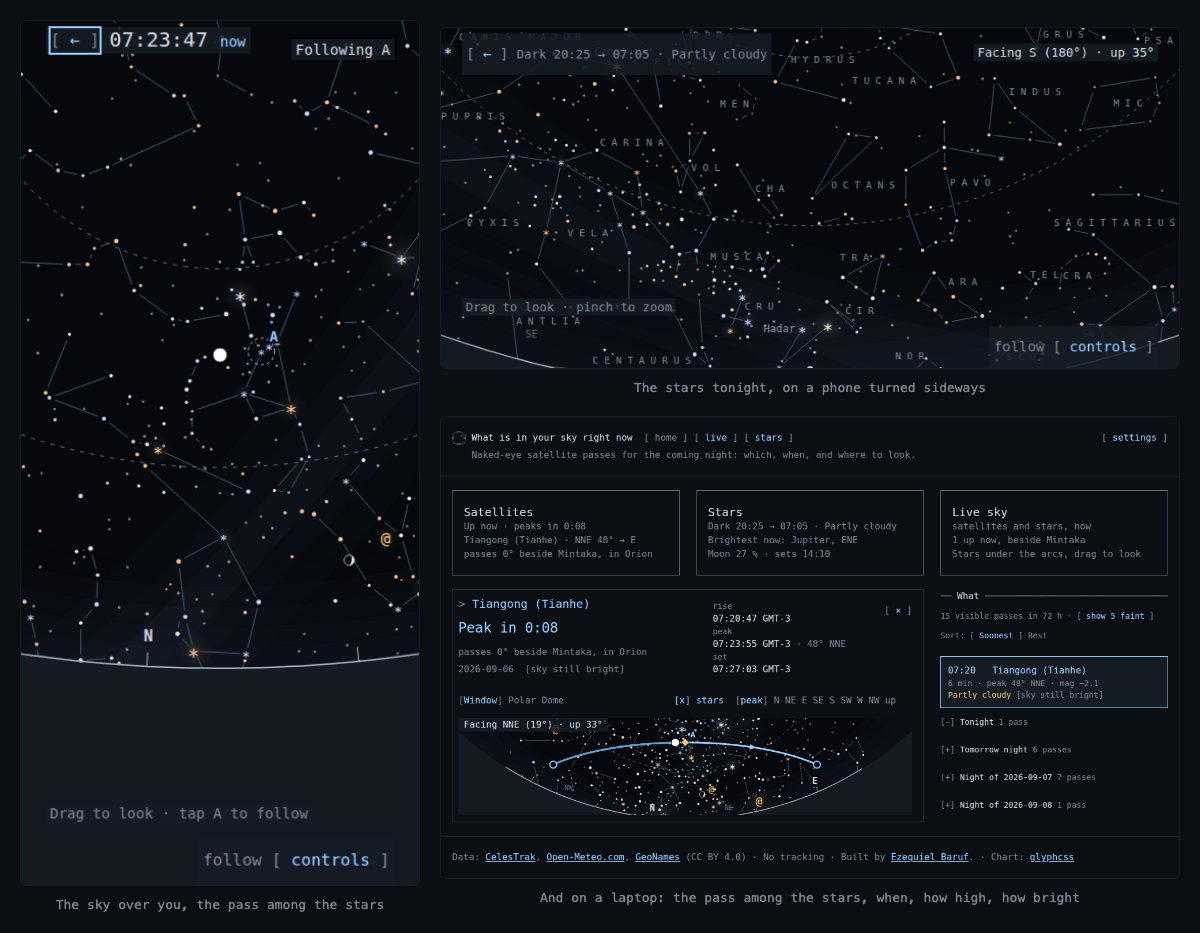
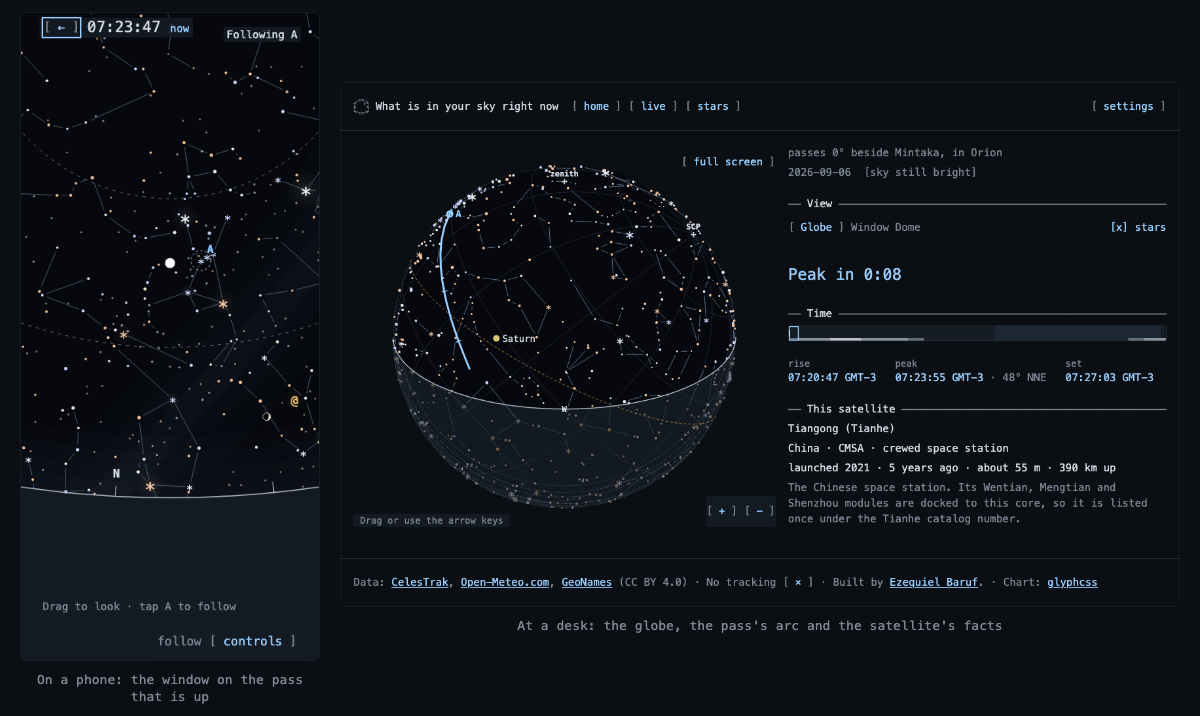
R191: the hero and the social preview from 2.14's captures
A phone in the window over a pass and a desk on the globe with the
pass's arc and its facts; the preview fits each column to the height.
FR-PUB-14, D-1107.

diff --git a/scripts/readme-hero.ts b/scripts/readme-hero.ts
@@ -14,9 +14,9 @@
  * phase fails a test instead of leaving a broken image in the README.
  *
  * R178 (FR-SDD-22, D-1068): the capture set left `main` for the orphan `captures`
- * branch, so the three captures the hero is made of stay on `main` as README
+ * branch, so the captures the hero is made of stay on `main` as README
  * images, under `docs/readme/sources/` with the set's names. To move the hero to
- * a newer shoot, copy the three files from the branch (`git show
+ * a newer shoot, copy the files `SOURCES` names from the branch (`git show
  * origin/captures:<file>`) into that directory and run this script. The output
  * never goes under `docs/screenshots/`.
  *
@@ -60,49 +60,32 @@ export interface Source {
 }
 
 /**
- * The captures, in this order. Each is a release capture from the v1.3 set,
- * shot in the dark theme in English from the production build — so the picture
- * cannot disagree with the build the capture set was shot from.
+ * The captures, in this order: the two FR-PUB-14 names for 2.14.0, shot in the
+ * dark theme in English from the production build, so the picture cannot
+ * disagree with the build the set was shot from.
  *
- * Three answers to the three things a reader wants in the first ten seconds:
- * what the sky over them looks like (the live page on a standing phone, the
- * tile the eye lands on first), what the app is for outdoors (the stars page
- * on a phone turned sideways since R153; the sky screen held up until v2.9
- * retired it), and what it actually
- * shows you (the laptop's pass detail on the window since R128: the pass's arc
- * under the stars it crosses, faced to its peak, with its time, peak and
- * brightness in the card beside it — v2.5's one sky, FR-SKY-9).
+ * R191 (FR-PUB-14, D-1107): a phone in the window over a pass, and a desk on
+ * the globe with the pass's arc and the satellite's facts. Until 2.13 there
+ * were three tiles — the live page on a phone, the stars page turned sideways
+ * and the pass detail on the window at a laptop (R128, R153); 2.14's desk is
+ * one sky on the globe, so the desk tile is `sky-pass-facts` and the sideways
+ * phone left the picture (the stars page on a phone did not change in 2.14).
  */
 export const SOURCES = [
   {
-    // R80: the set's `live` screen is `live-watching` since v2.0 split the live page into
-    // its two states (FR-WATCH-9 f). Watching is the right half of that split for a first
-    // picture: it is the page as it opens, with no scrub block over the sky. R135 (FR-FLOW-14):
-    // a phone opens on the window since v2.6, following the pass that is up, so the tile is the
-    // pass among the stars and no longer the braille dome; the caption says what it shows. R145 (FR-TONIGHT-6):
-    // since v2.7 the tile also carries the shown time, the context line, the time track and the three taps.
-    // R149 (FR-FULL-1, FR-FULL-2): since v2.8 the tile is all sky, `[ ← ]` and the shown time over it and `[ controls ]` at its foot.
+    // R80, R135, R145, R149: the live page as a phone opens it — on the window, following the pass
+    // that is up, all sky, the shown time over it and `[ controls ]` at its foot.
     file: 'v1-live-watching-390-dark-en.png',
-    caption: 'The sky over you, the pass among the stars',
+    caption: 'On a phone: the window on the pass that is up',
     w: 390,
     h: 844,
     slot: 'main',
   },
   {
-    // R153 (FR-GYRO-6, FR-GYRO-9; PLAN D-960): v2.9 retires the sky screen this tile was, so the phone turned is the
-    // stars page now — the constellations over the place, the facing row and the layers in the rail beside them.
-    file: 'v1-stars-844-dark-en.png',
-    caption: 'The stars tonight, on a phone turned sideways',
-    w: 844,
-    h: 390,
-    slot: 'stack',
-  },
-  {
-    // R128 (FR-SKY-9): v2.5 draws one sky in every view, so the laptop tile is the pass detail on the
-    // window — the pass among the stars it crosses, with its time, peak and brightness in the card beside
-    // it — where it was the home page; the same size, so the layout does not move.
-    file: 'v1-guide-window-1280-dark-en.png',
-    caption: 'And on a laptop: the pass among the stars, when, how high, how bright',
+    // R191 (FR-PUB-14): the pass detail at a desk on the globe — the pass's arc among the stars, its
+    // times in the rail and `This satellite` under them (FR-WIDE-3, FR-FACT-2).
+    file: 'v1-sky-pass-facts-1280-dark-en.png',
+    caption: "At a desk: the globe, the pass's arc and the satellite's facts",
     w: 1280,
     h: 800,
     slot: 'stack',
@@ -157,8 +140,20 @@ export interface Layout {
   gap: number;
   /** The standing phone's width; every other box is derived from it. */
   mainWidth: number;
+  /** R191: the column's width when it must not take all the room beside the phone (the preview's desk tile); absent, it does. */
+  stackWidth?: number;
   title: boolean;
 }
+
+/**
+ * The hero's sheet: the tiles set the height, so only the width is fixed. The
+ * padding and the gaps are as small as they can be — GitHub renders a README
+ * image at about 880 px, so every pixel not spent on a screen is a pixel of
+ * text the reader loses to the downscale. R191: the phone is 300 px wide with
+ * two tiles, so the desk beside it gets 840 px and the two columns are near
+ * one height (at 400 the phone stood twice the desk's height).
+ */
+export const HERO_LAYOUT: Layout = { width: HERO.width, height: null, pad: 20, gap: 20, mainWidth: 300, title: false };
 
 /** One tile, placed. */
 export interface Placed {
@@ -181,8 +176,9 @@ export function geometry(layout: Layout, sources: readonly Source[] = SOURCES): 
   if (stacked.length === 0) throw new Error('the sheet needs at least one stacked tile');
 
   const inner = layout.width - 2 * layout.pad;
-  const stackWidth = inner - layout.gap - layout.mainWidth;
-  if (stackWidth <= 0) throw new Error(`mainWidth ${String(layout.mainWidth)} leaves no room beside it in ${String(layout.width)} px`);
+  const room = inner - layout.gap - layout.mainWidth;
+  const stackWidth = Math.min(room, layout.stackWidth ?? room);
+  if (room <= 0 || stackWidth <= 0) throw new Error(`mainWidth ${String(layout.mainWidth)} leaves no room beside it in ${String(layout.width)} px`);
 
   const place = (source: Source, width: number): Placed => ({ source, width, height: Math.round((width * source.h) / source.w) });
   const main = place(only, layout.mainWidth);
@@ -195,14 +191,25 @@ export function geometry(layout: Layout, sources: readonly Source[] = SOURCES): 
 }
 
 /**
- * The widest standing phone that keeps the sheet inside `ceiling`. The social
- * preview is 1280 x 640 whatever is in it, so the tiles are sized down to that
- * rather than the frame cropping whatever overflowed it.
+ * The widest standing phone and the widest column beside it that keep the sheet
+ * inside `ceiling`. The social preview is 1280 x 640 whatever is in it, so the
+ * tiles are sized down to that rather than the frame cropping whatever
+ * overflowed it. R191: each column is fitted to the height on its own — a desk
+ * tile in the column is 0.625 of its width tall, so letting it take all the
+ * room beside the phone makes it taller the narrower the phone is, and no
+ * phone width fits — and the row is centred in the width left over.
  */
-function fitMainWidth(layout: Layout, ceiling: number, sources: readonly Source[]): number {
-  const widest = Math.floor((layout.width - 2 * layout.pad - layout.gap) / 2);
+function fitWidths(layout: Layout, ceiling: number, sources: readonly Source[]): Layout {
+  const inner = layout.width - 2 * layout.pad;
+  const widest = Math.floor((inner - layout.gap) / 2);
+  const fits = (candidate: Layout): boolean => geometry(candidate, sources).height <= ceiling;
   for (let width = widest; width >= 80; width -= 2) {
-    if (geometry({ ...layout, mainWidth: width }, sources).height <= ceiling) return width;
+    const room = inner - layout.gap - width;
+    // The phone alone must fit: a column of width 1 is never the taller one.
+    if (!fits({ ...layout, mainWidth: width, stackWidth: 1 })) continue;
+    for (let column = room; column >= 80; column -= 2) {
+      if (fits({ ...layout, mainWidth: width, stackWidth: column })) return { ...layout, mainWidth: width, stackWidth: column };
+    }
   }
   throw new Error(`no tile width fits ${String(sources.length)} captures into ${String(layout.width)} x ${String(ceiling)}`);
 }
@@ -273,12 +280,7 @@ export async function main(): Promise<void> {
   const urls = new Map(SOURCES.map((source) => [source.file, pathToFileURL(join(SCREENSHOTS, source.file)).href]));
   const browser = await chromium.launch();
   try {
-    // The hero: the tiles set the height, so only the width is fixed. The
-    // padding and the gaps are as small as they can be — GitHub renders a
-    // README image at about 880 px, so every pixel not spent on a screen is a
-    // pixel of text the reader loses to the downscale.
-    const hero: Layout = { width: HERO.width, height: null, pad: 20, gap: 20, mainWidth: 400, title: false };
-    await shoot(browser, scratch, 'hero.html', compose(hero, urls), HERO.path);
+    await shoot(browser, scratch, 'hero.html', compose(HERO_LAYOUT, urls), HERO.path);
 
     // The preview: 1280 x 640 exactly, which is what GitHub asks for, so the
     // sheet is given both and the standing phone is sized down until the title
@@ -286,7 +288,7 @@ export async function main(): Promise<void> {
     // `previewSources`.
     const chosen = previewSources();
     const preview: Layout = { width: PREVIEW.width, height: PREVIEW.height, pad: 24, gap: 16, mainWidth: 0, title: true };
-    const fitted: Layout = { ...preview, mainWidth: fitMainWidth(preview, PREVIEW.height, chosen) };
+    const fitted = fitWidths(preview, PREVIEW.height, chosen);
     await shoot(browser, scratch, 'preview.html', compose(fitted, urls, chosen), PREVIEW.path);
   } finally {
     await browser.close();

diff --git a/tests/docs/public.test.ts b/tests/docs/public.test.ts
@@ -18,7 +18,7 @@ import { existsSync, readFileSync, statSync } from 'node:fs';
 import { join, normalize } from 'node:path';
 import { describe, expect, it } from 'vitest';
 
-import { geometry, HERO, PREVIEW, previewSources, SOURCES } from '../../scripts/readme-hero';
+import { geometry, HERO, HERO_LAYOUT, PREVIEW, previewSources, SOURCES } from '../../scripts/readme-hero';
 import { DATA_RULE, productionPackages, RULE } from '../../scripts/third-party-notices';
 
 const readme = readFileSync('README.md', 'utf8');
@@ -160,7 +160,7 @@ describe('the hero and the social preview (FR-PUB-2, FR-PUB-11, D-370)', () => {
     return { width: header.readUInt32BE(16), height: header.readUInt32BE(20) };
   }
 
-  // R178 (FR-SDD-22): the set lives on the `captures` branch; the hero's three captures stay on `main` in docs/readme/sources/.
+  // R178 (FR-SDD-22): the set lives on the `captures` branch; the hero's captures stay on `main` in docs/readme/sources/.
   it('is composed from captures kept in docs/readme/sources/, at the sizes it declares', () => {
     expect(SOURCES.length).toBeGreaterThanOrEqual(2);
     for (const source of SOURCES) {
@@ -177,8 +177,8 @@ describe('the hero and the social preview (FR-PUB-2, FR-PUB-11, D-370)', () => {
     // tiles and one landscape one, so a change to SOURCES moved the pictures and
     // not the boxes. Every tile is placed from its own declared size now, and
     // this is what says so — the placed tiles are exactly the sources.
-    const layout = { width: HERO.width, height: null, pad: 20, gap: 20, mainWidth: 400, title: false };
-    const { main, stack, height } = geometry(layout);
+    // R191: the hero's own layout, the one the script shoots.
+    const { main, stack, height } = geometry(HERO_LAYOUT);
     expect([main, ...stack].map((tile) => tile.source.file)).toEqual(SOURCES.map((source) => source.file));
     for (const tile of [main, ...stack]) {
       expect(tile.height, `${tile.source.file} keeps its aspect`).toBe(Math.round((tile.width * tile.source.h) / tile.source.w));
